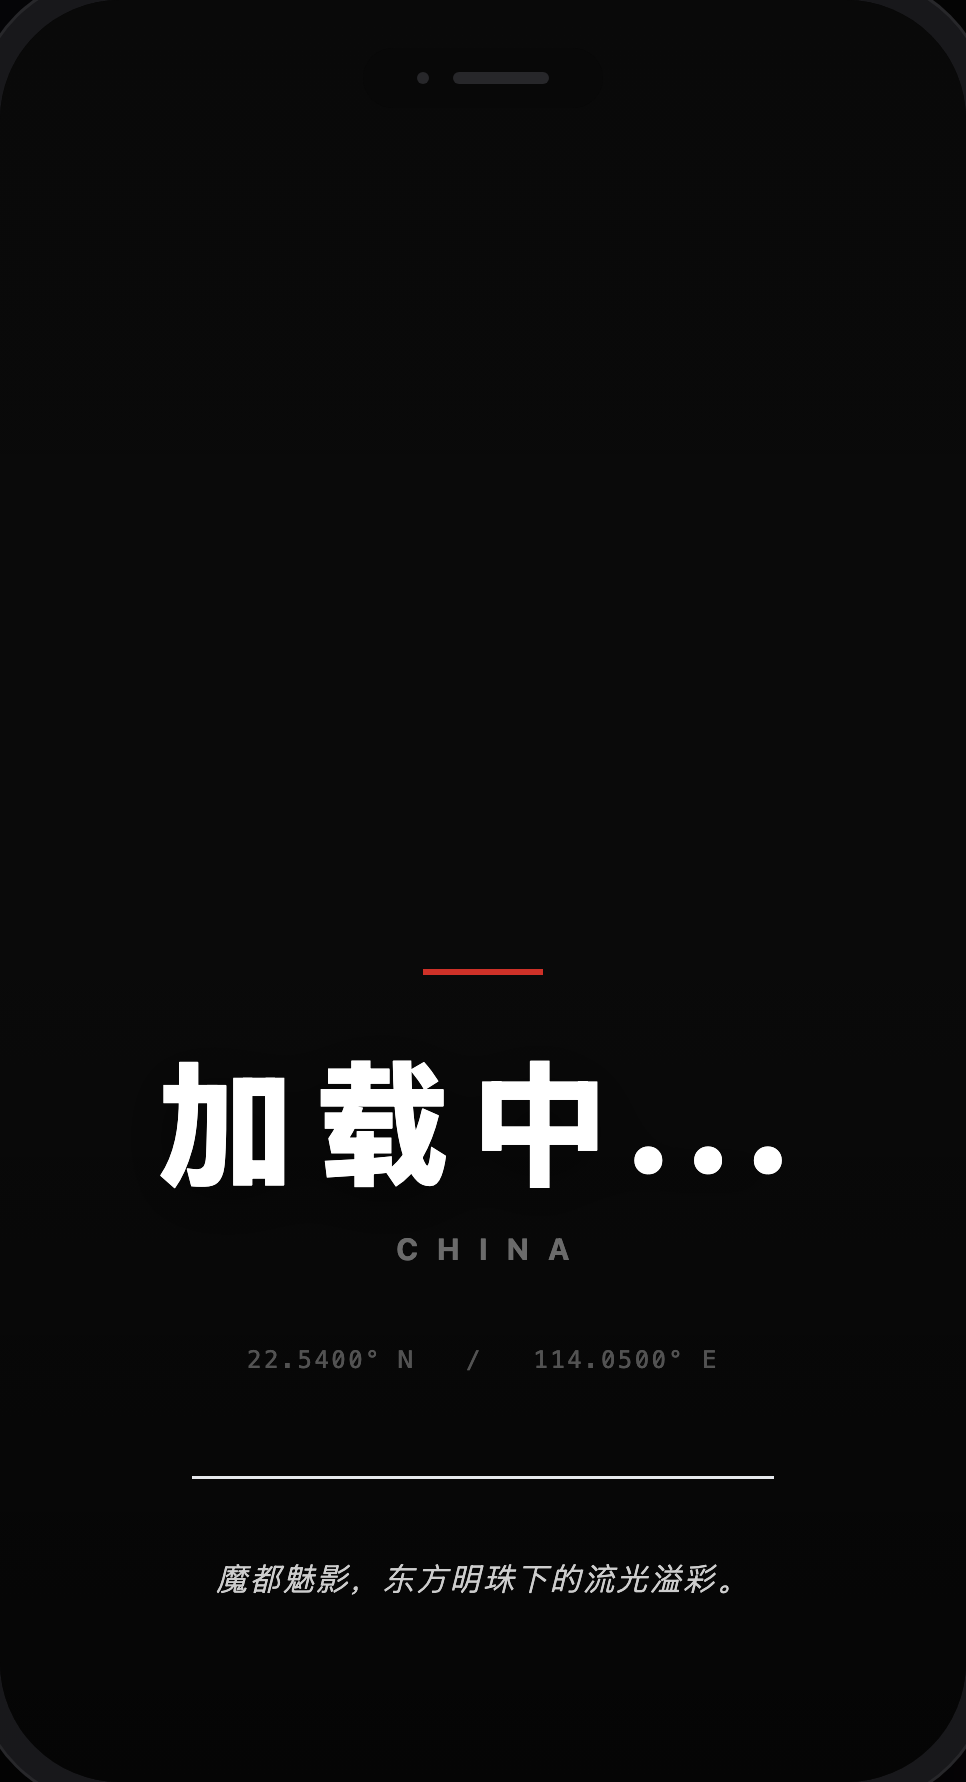
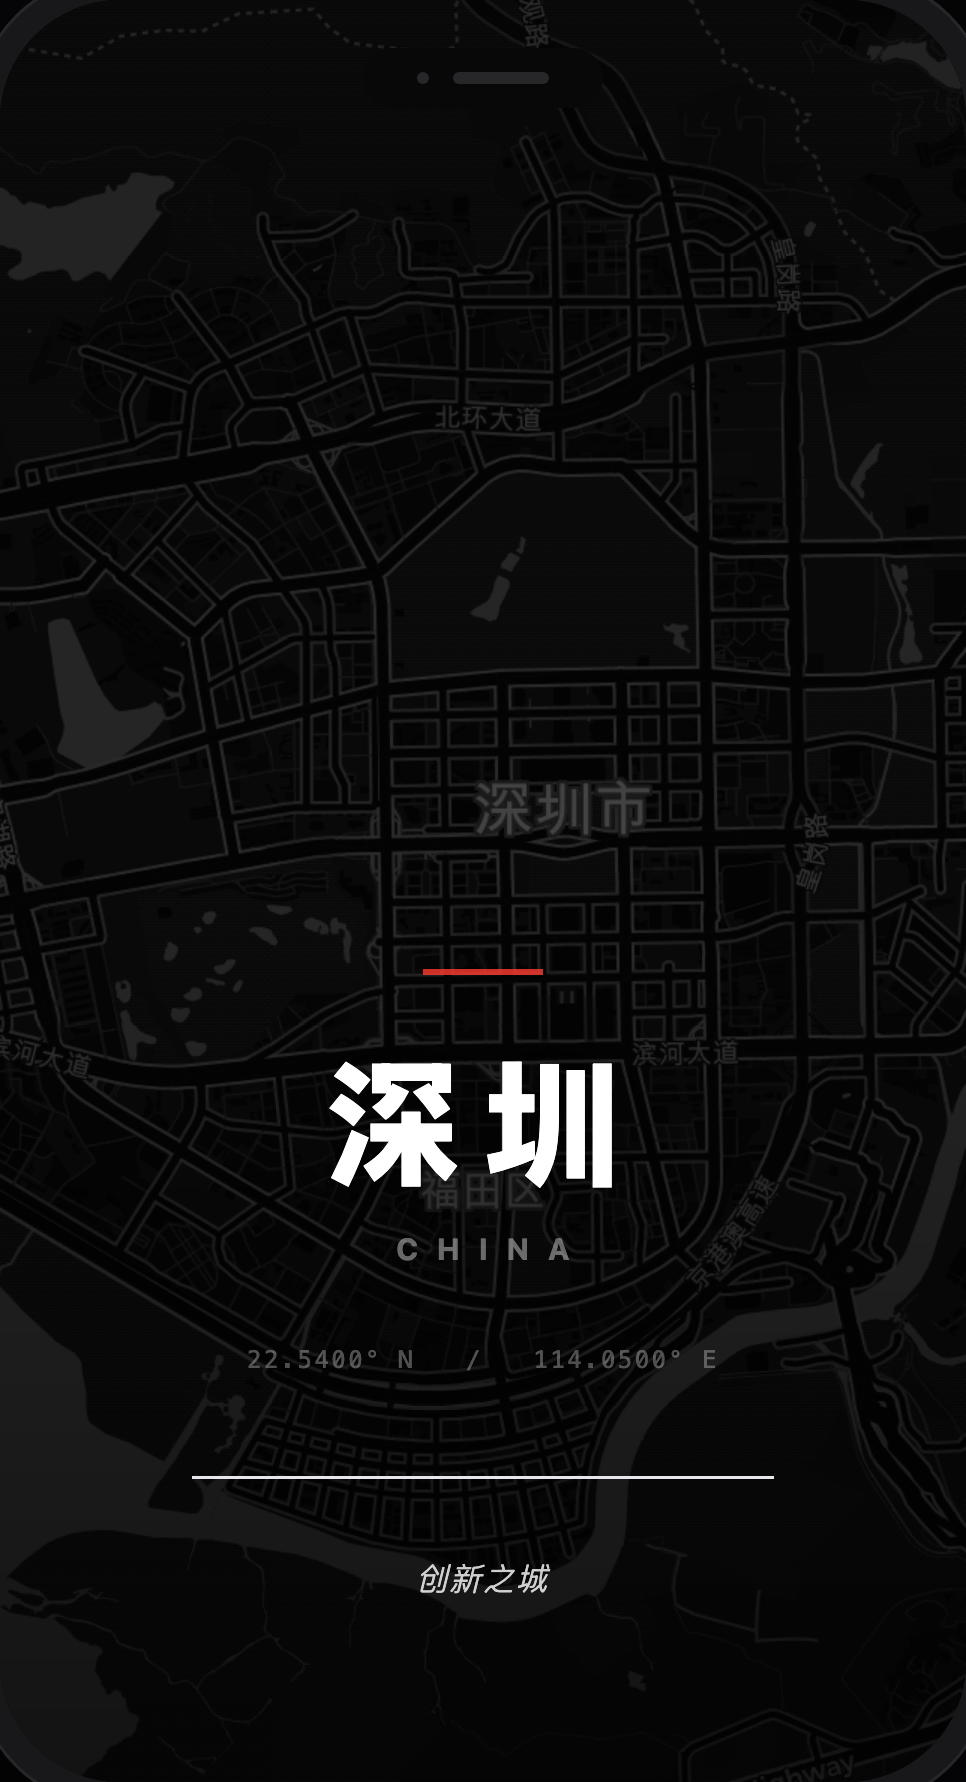
完善移动端交互

diff --git a/App.tsx b/App.tsx
@@ -46,24 +46,42 @@ const App: React.FC = () => {
     const al = params.get('al') as AdminLevel;
     const exportMode = params.get('export') === 'true';
 
+    const nameParam = params.get('name');
+    const descParam = params.get('desc');
+
     if (al && ADMIN_LEVELS.some(level => level.id === al)) {
       setAdminLevel(al);
     }
 
     if (!isNaN(lat) && !isNaN(lng)) {
-      const name = params.get('name');
-      if (name) {
-        setCity(prev => ({ ...prev, lat, lng, id: 'custom', name }));
-      } else {
+      setCity(prev => ({
+        ...prev,
+        lat,
+        lng,
+        id: 'custom',
+        name: nameParam || prev.name,
+        description: descParam !== null ? descParam : prev.description
+      }));
+
+      if (!nameParam) {
         // 如果没有提供名称，尝试根据坐标获取
-        setCity(prev => ({ ...prev, lat, lng, id: 'custom', name: '加载中...' }));
+        setCity(prev => ({ ...prev, name: '加载中...' }));
         fetchCityName(lat, lng, al || 'city').then(fetchedName => {
-          setCity(prev => ({ ...prev, lat, lng, id: 'custom', name: fetchedName }));
+          setCity(prev => ({ ...prev, name: fetchedName }));
         });
       }
       setManualLat(lat.toString());
       setManualLng(lng.toString());
     } else {
+      // 即使没有坐标，也可以应用自定义名称和标语
+      if (nameParam || descParam) {
+        setCity(prev => ({
+          ...prev,
+          name: nameParam || prev.name,
+          description: descParam !== null ? descParam : prev.description
+        }));
+      }
+
       // 如果没有 URL 参数，尝试获取当前地理位置
       if ("geolocation" in navigator) {
         navigator.geolocation.getCurrentPosition(
@@ -72,10 +90,16 @@ const App: React.FC = () => {
             const currentLng = position.coords.longitude;
             setManualLat(currentLat.toFixed(6));
             setManualLng(currentLng.toFixed(6));
-            setCity(prev => ({ ...prev, lat: currentLat, lng: currentLng, id: 'custom', name: '加载中...' }));
-            fetchCityName(currentLat, currentLng, al || 'city').then(fetchedName => {
-              setCity(prev => ({ ...prev, lat: currentLat, lng: currentLng, id: 'custom', name: fetchedName }));
-            });
+
+            // 只有在没提供 nameParam 时才自动获取并设置
+            if (!nameParam) {
+              setCity(prev => ({ ...prev, lat: currentLat, lng: currentLng, id: 'custom', name: '加载中...' }));
+              fetchCityName(currentLat, currentLng, al || 'city').then(fetchedName => {
+                setCity(prev => ({ ...prev, lat: currentLat, lng: currentLng, id: 'custom', name: fetchedName }));
+              });
+            } else {
+              setCity(prev => ({ ...prev, lat: currentLat, lng: currentLng, id: 'custom' }));
+            }
           },
           (error) => {
             console.error("Error getting location:", error);

diff --git a/components/MapPreview.tsx b/components/MapPreview.tsx
@@ -7,9 +7,10 @@ interface MapPreviewProps {
   style: MapStyle;
   zoom: number;
   showLabels: boolean;
+  onMapClick?: (lat: number, lng: number) => void;
 }
 
-const MapPreview: React.FC<MapPreviewProps> = ({ city, style, zoom, showLabels }) => {
+const MapPreview: React.FC<MapPreviewProps> = ({ city, style, zoom, showLabels, onMapClick }) => {
   const mapContainerRef = useRef<HTMLDivElement>(null);
   const mapInstanceRef = useRef<any>(null);
   const layerRef = useRef<any>(null);
@@ -47,10 +48,17 @@ const MapPreview: React.FC<MapPreviewProps> = ({ city, style, zoom, showLabels }
           zoomAnimation: false,
           markerZoomAnimation: false
         });
+
+        // 添加点击事件监听
+        mapInstanceRef.current.on('click', (e: any) => {
+          if (onMapClick) {
+            onMapClick(e.latlng.lat, e.latlng.lng);
+          }
+        });
       }
 
       const map = mapInstanceRef.current;
-      
+
       // 更新视图
       map.setView([city.lat, city.lng], zoom);
 
@@ -71,7 +79,7 @@ const MapPreview: React.FC<MapPreviewProps> = ({ city, style, zoom, showLabels }
       resizeObserver.observe(mapContainerRef.current);
 
       return () => resizeObserver.disconnect();
-      
+
     } catch (err) {
       console.error("Leaflet Error:", err);
       setError("地图引擎加载异常");
@@ -82,29 +90,29 @@ const MapPreview: React.FC<MapPreviewProps> = ({ city, style, zoom, showLabels }
   return (
     <div className="relative w-full h-full flex items-center justify-center overflow-hidden bg-[#0a0a0a]">
       {/* 真正承载地图的层 */}
-      <div 
-        ref={mapContainerRef} 
+      <div
+        ref={mapContainerRef}
         className="absolute inset-0 w-full h-full z-0"
         style={{ background: '#0a0a0a' }}
       />
-      
+
       {/* 渐变遮罩层（增强文字可读性） */}
       <div className="absolute inset-0 pointer-events-none bg-gradient-to-b from-black/10 via-transparent to-black/50 z-10" />
 
       {/* 信息标签层 */}
       {showLabels && (
-        <div 
+        <div
           className="absolute bottom-[10%] left-0 right-0 px-10 flex flex-col items-center text-center z-20 pointer-events-none"
           style={{ color: style.textColor }}
         >
           {/* 装饰线条 */}
           <div className="w-10 h-[2px] mb-6 opacity-80" style={{ backgroundColor: city.accentColor }} />
-          
+
           {/* 城市名称 */}
           <h1 className="text-5xl font-black tracking-[0.15em] drop-shadow-[0_4px_12px_rgba(0,0,0,0.6)]">
             {city.name}
           </h1>
-          
+
           {/* 国家/副标题 */}
           <p className="text-[10px] font-bold tracking-[0.6em] uppercase opacity-40 mt-3 pl-[0.6em]">
             {city.country}

diff --git a/README.md b/README.md
@@ -38,7 +38,8 @@ npm run build
 | `lng` | 经度 | `121.47` |
 | `z` | 缩放级别 | `10` 到 `18` |
 | `s` | 地图风格 | `dark`, `light`, `silver`, `retro` |
-| `c` | 装饰色 (Hex) | `ff3b30` |
+| `name` | 城市名称 | `深圳` |
+| `desc` | 标语描述 | `Shenzhen: Silicon Valley of Hardware` |
 | `r` | **屏幕比例** | `9:16`, `9:19`, `9:19.5`, `9:21` |
 
 ---
@@ -71,10 +72,11 @@ playwright install
 > `playwright install` 这一步至关重要。如果缺少它，运行截图时会报错 `Executable doesn't exist`。
 
 #### 2) 生成壁纸
-确保开发服务器正在运行（通常是 `http://localhost:5173`），然后运行：
+确保开发服务器正在运行（通常是 `http://localhost:3000`），然后运行：
 
 ```bash
-shot-scraper "http://127.0.0.1:5173/?lat=22.54&lng=114.05&s=dark&r=9:19.5" \
+# 生成带有自定义名称和标语的壁纸
+shot-scraper "http://127.0.0.1:3000/?lat=22.54&lng=114.05&s=dark&r=9:19.5&name=深圳&desc=创新之城" \
   --selector '[data-testid="wallpaper-canvas"]' \
   --scale-factor 3 \
   --wait 3000 \
